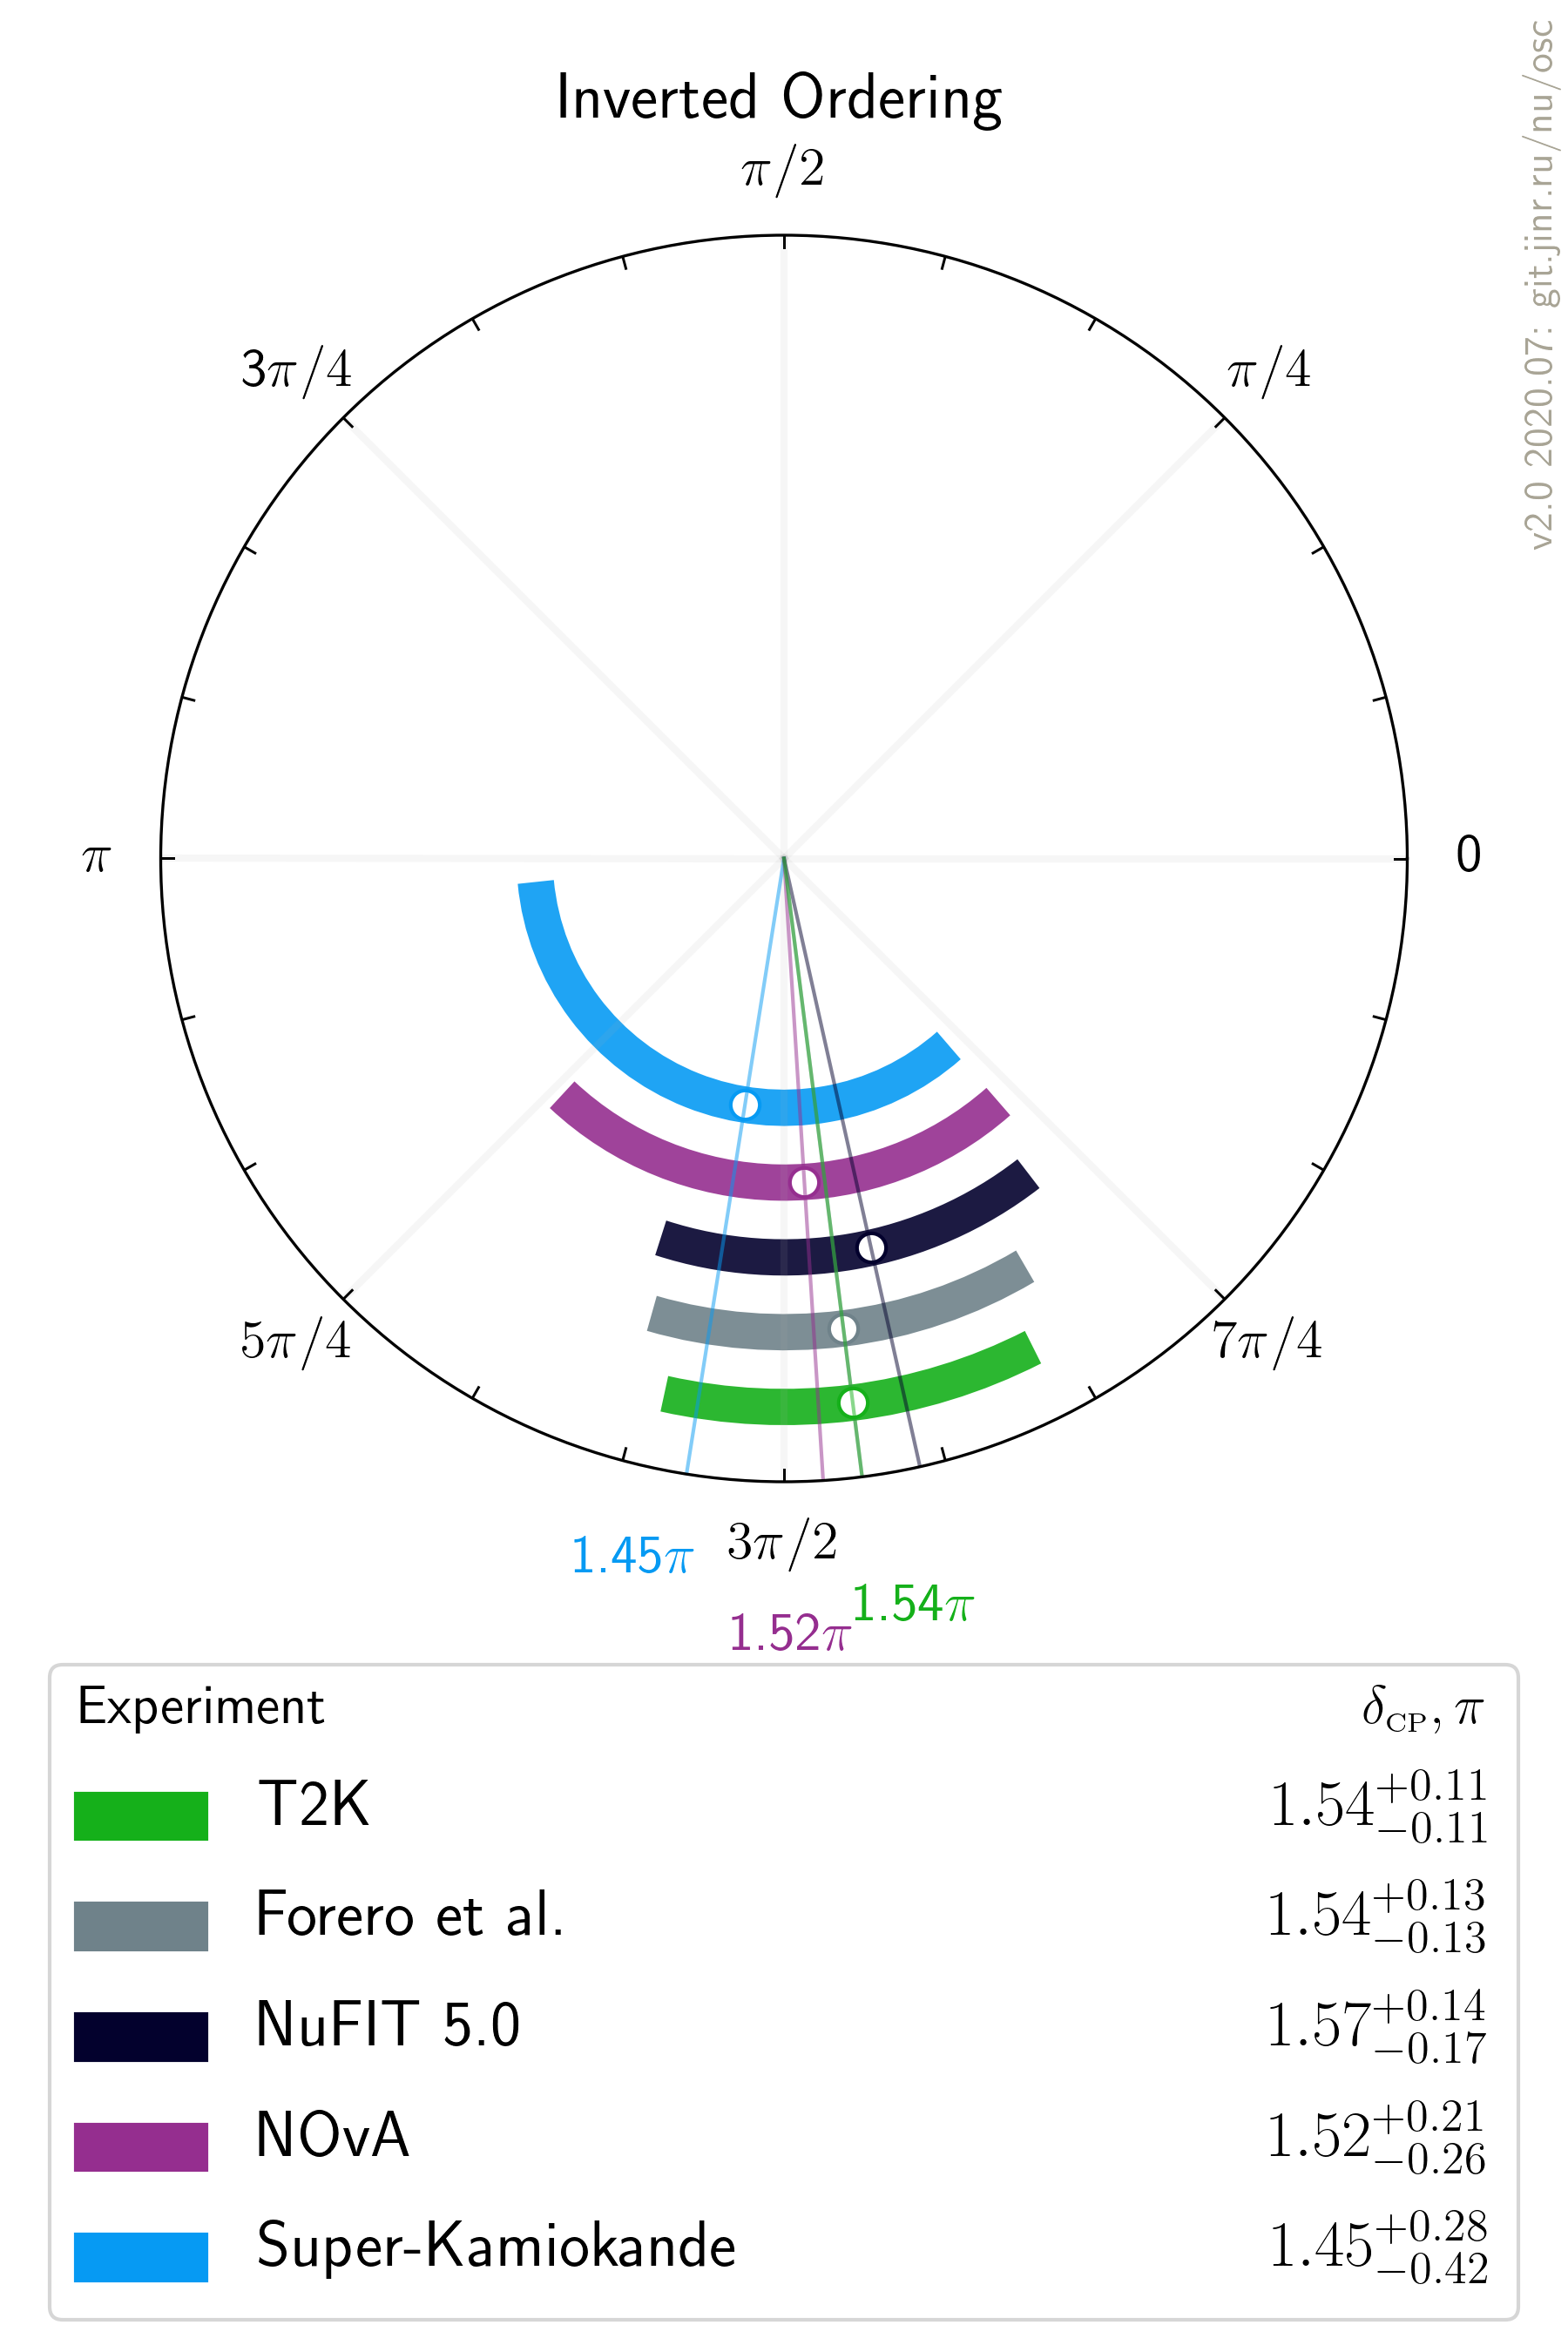
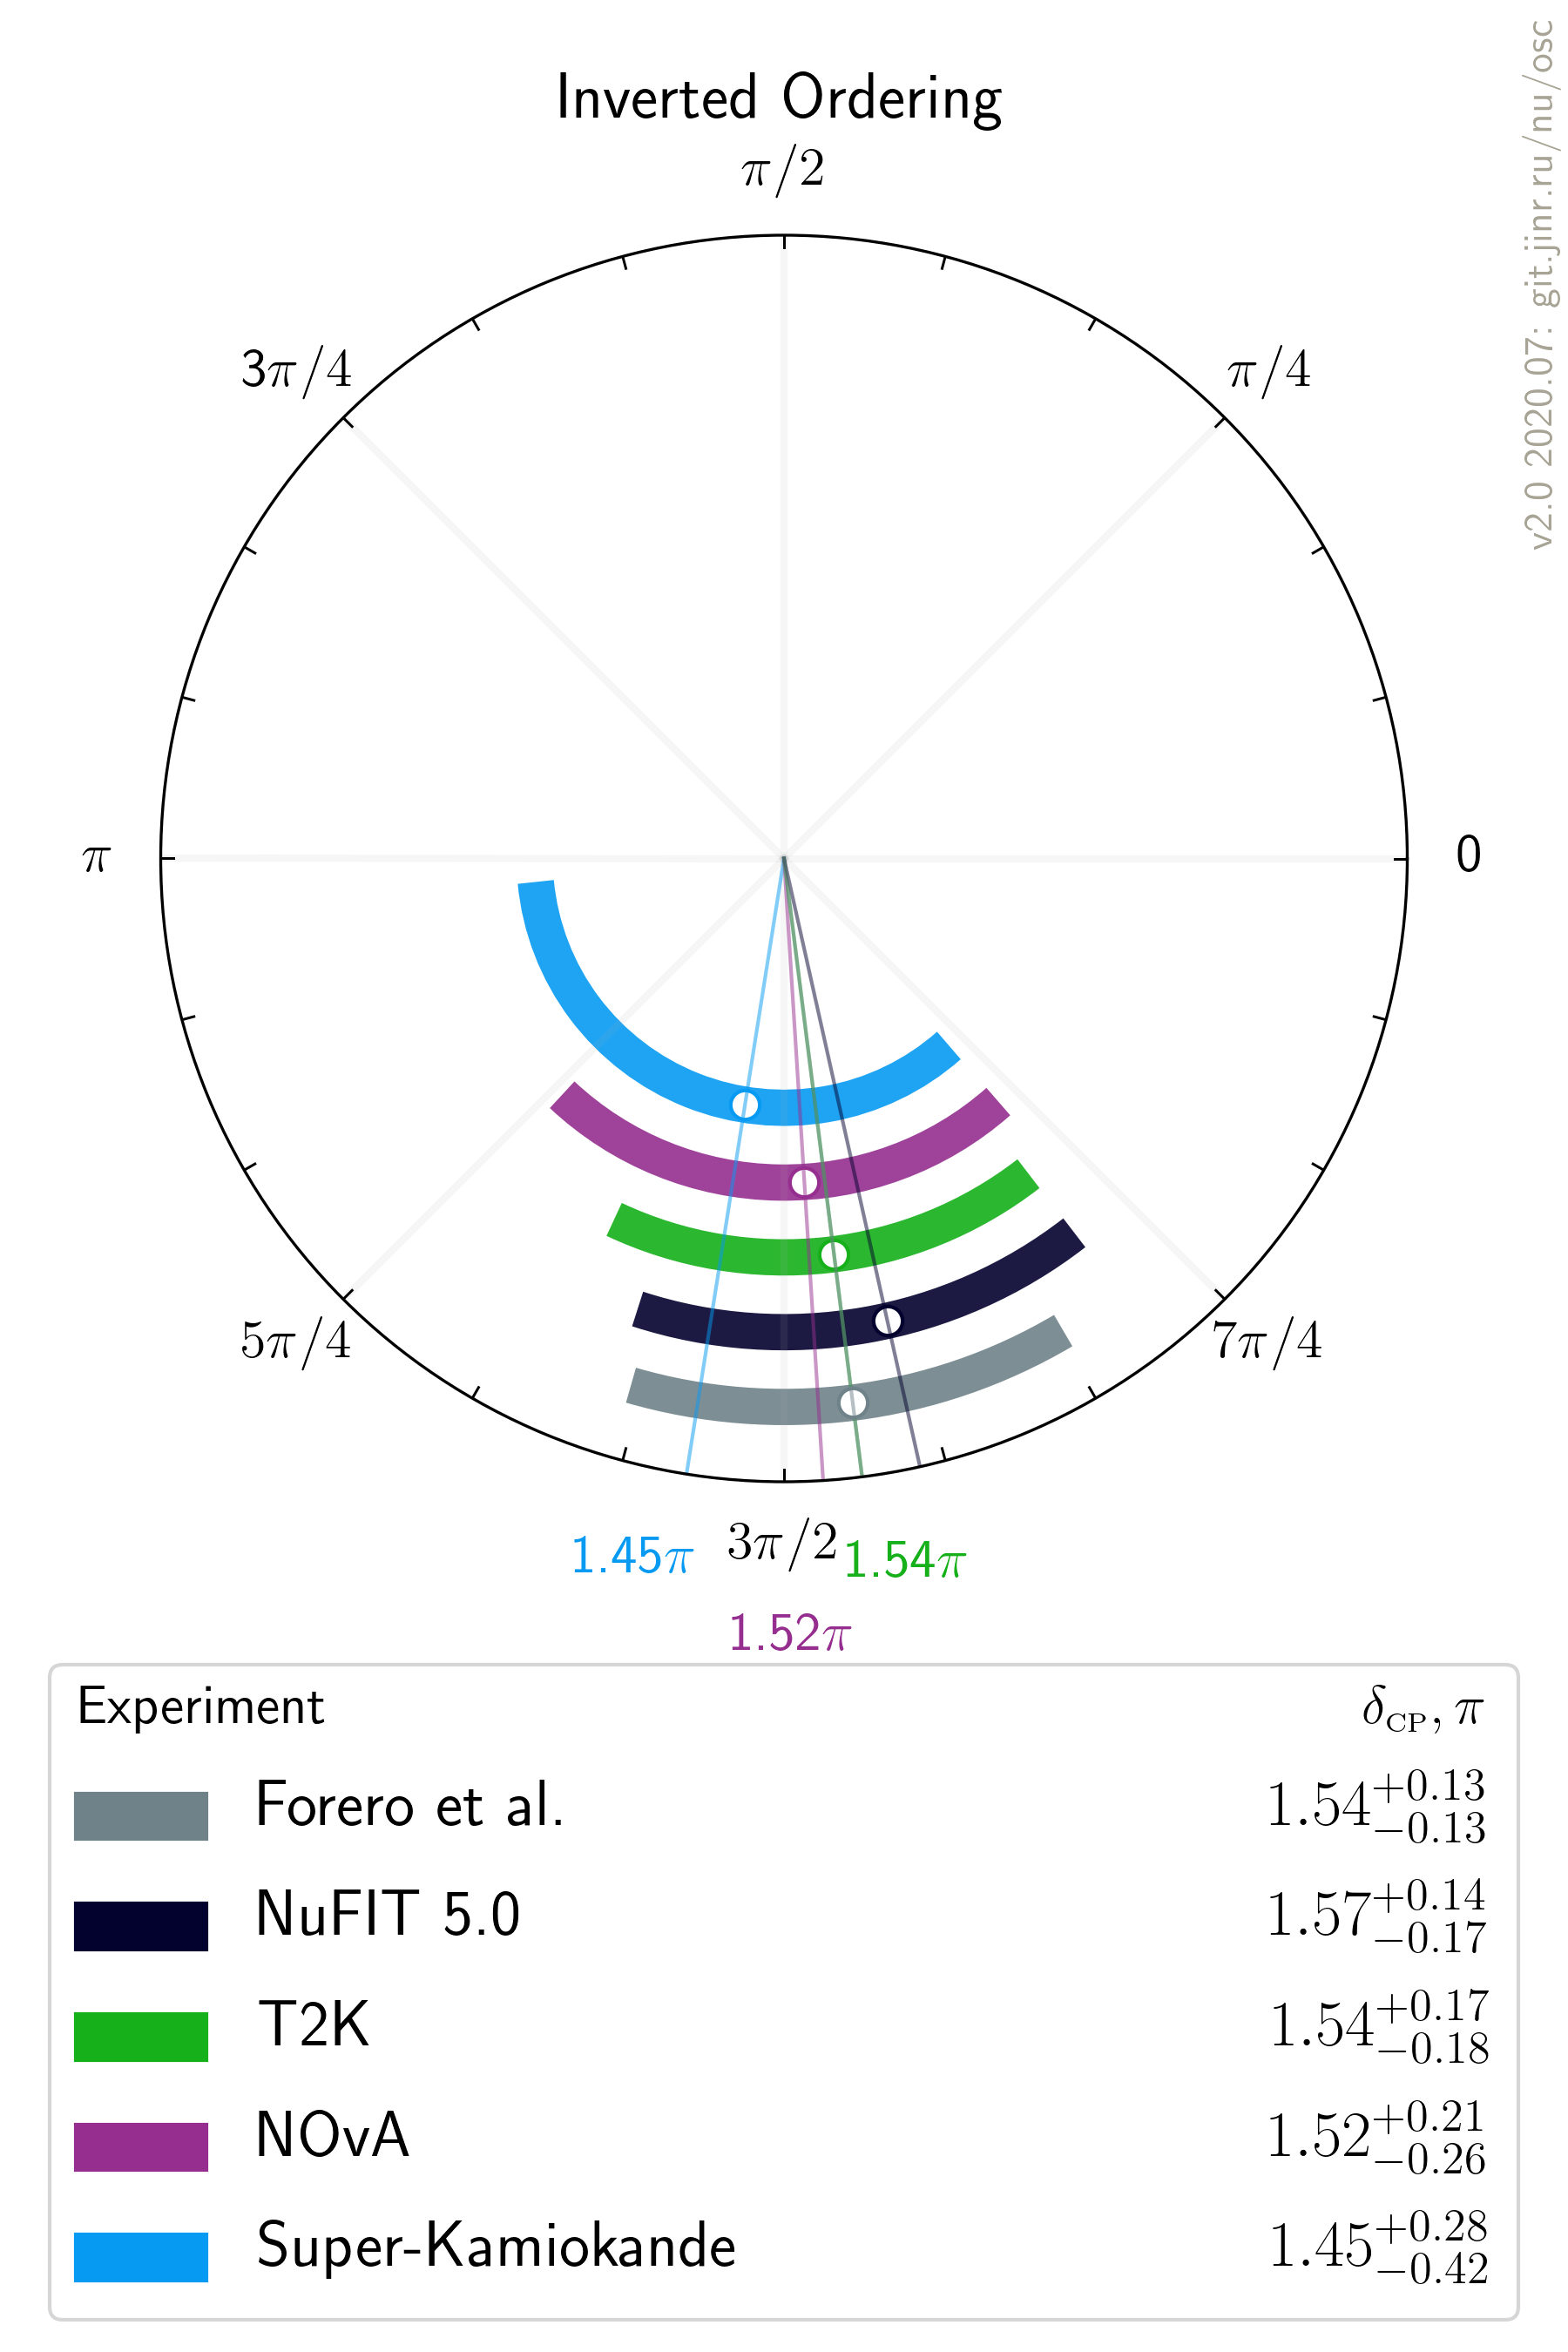
minor

diff --git a/samples/deltaCP/v2.0-neutrino2020/plot_deltacp.py b/samples/deltaCP/v2.0-neutrino2020/plot_deltacp.py
@@ -48,7 +48,7 @@ def main(args):
     dtype1 = np.dtype([('id', 'U20'), ('exp', 'U20'), ('cv', 'f8'), ('left', 'f8'), ('right', 'f8'),])
     result = np.loadtxt(args.input, dtype=dtype1, skiprows=1, usecols=(0, 1, 5, 6, 7))
     rev_arr = result[::-1]
-    print(result)
+    # print(result)
 
     #
     # Figure